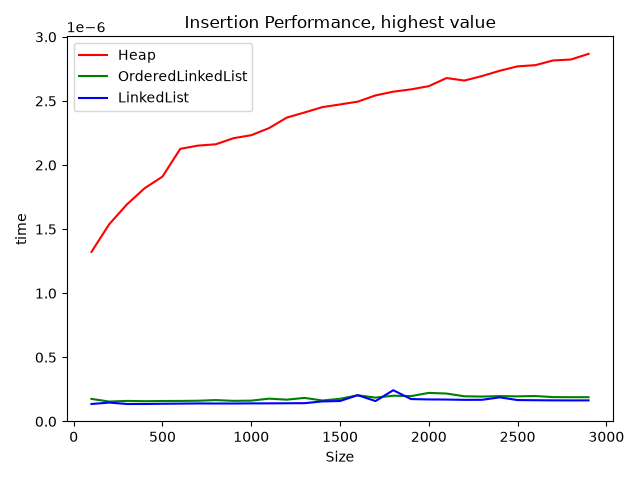
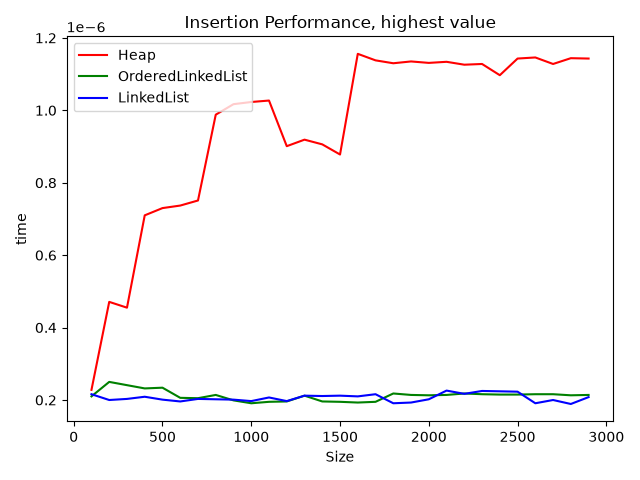
fixed some problems with graphing out insertion time

diff --git a/PicchioniEs1LabAlg.py b/PicchioniEs1LabAlg.py
@@ -1,5 +1,5 @@
 from math import inf, log, ceil
-from timeit import default_timer as timer
+from time import perf_counter as timer
 import matplotlib.pyplot as plt
 import random
 
@@ -398,24 +398,50 @@ def plot_graph(data_type, number_of_operation, time):
     print("-- finished testing for " + label)
 
 
+# def measure_insert_time(data_type, number_of_operation, elements, time, repeats):
+#     for i in number_of_operation:
+#         best = inf
+#         for _ in range(repeats):
+#             if data_type == 0:
+#                 prio_queue = Heap()
+#             elif data_type == 1:
+#                 prio_queue = OrderedLinkedList()
+#             else:
+#                 prio_queue = LinkedList()
+#             start = timer()
+#             for e in elements[:i]:
+#                 prio_queue.insert(e)
+#             end = timer()
+#             best = min(best, end - start)
+#
+#         # if len(time) == 0:
+#         #     time.append(best)
+#         # else:
+#         #     time.append(best + time[-1])
+#         time.append(best)
+#     plot_graph(data_type, number_of_operation, time)
+#
+
+
 def measure_insert_time(data_type, number_of_operation, elements, time, repeats):
+    if data_type == 0:
+        prio_queue = Heap()
+    elif data_type == 1:
+        prio_queue = OrderedLinkedList()
+    else:
+        prio_queue = LinkedList()
     for i in number_of_operation:
         best = inf
-        for _ in range(repeats):
-            if data_type == 0:
-                prio_queue = Heap()
-            elif data_type == 1:
-                prio_queue = OrderedLinkedList()
-            else:
-                prio_queue = LinkedList()
-            for e in elements[:i]:
-                prio_queue.insert(e)
-
+        for j in range(repeats):
             new_value = elements[i]
             start = timer()
             prio_queue.insert(new_value)
             end = timer()
             best = min(best, end - start)
+            if j == repeats - 1:
+                break
+            prio_queue.remove(new_value)
+
         # if len(time) == 0:
         #     time.append(best)
         # else:
@@ -547,14 +573,14 @@ def increase_key_test(
 number_of_elements = 3000
 step = 100
 number_of_operation = range(step, number_of_elements, step)
-interval_end = 3000
-number_of_repeats = 5
+interval_end = 3000000
+number_of_repeats = 10
 inputs = random.choices(range(interval_end), k=number_of_elements)
 
 # TODO remove testing lowest, same results as random
 print("# Testing Insertion cases")
 types_to_test = range(3)
-for i in [1, 2]:
+for i in range(3):
     insert_test(
         i,
         types_to_test,
@@ -568,7 +594,7 @@ for i in [1, 2]:
 print("# Testing Insertion cases, only Heap and LinkedList")
 types_to_test = [0, 2]
 insert_test(
-    2,
+    1,
     types_to_test,
     number_of_elements,
     number_of_operation,
@@ -577,80 +603,80 @@ insert_test(
     inputs,
 )
 
-print("# Testing Remove_Max")
-for i in range(3):
-    remove_max_test(
-        i,
-        number_of_operation,
-        number_of_repeats,
-        inputs,
-    )
-
-# also make a graph for only heap and OrderedLinkedList
-plt.title("Remove_Max Performance")
-plt.xlabel("Size")
-plt.ylabel("time")
-plt.legend(loc="upper left")
-plt.tight_layout()
-plt.savefig("remove_max_performance.png")
-plt.clf()
-
-print("# Testing Remove_Max, only Heap and OrderedLinkedList")
-for i in range(2):
-    remove_max_test(
-        i,
-        number_of_operation,
-        number_of_repeats,
-        inputs,
-    )
-
-# also make a graph for only heap and OrderedLinkedList
-plt.title("Remove_Max Performance")
-plt.xlabel("Size")
-plt.ylabel("time")
-plt.legend(loc="upper left")
-plt.tight_layout()
-plt.savefig("remove_max_performance_no_linked.png")
-plt.clf()
-
-print("# Testing Increase_key")
-for i in range(3):
-    increase_key_test(
-        i,
-        number_of_operation,
-        interval_end,
-        number_of_repeats,
-        inputs,
-    )
-
-plt.title("Increase_key Performance")
-plt.xlabel("Size")
-plt.ylabel("time")
-plt.legend(loc="upper left")
-plt.tight_layout()
-plt.savefig("increase_key_performance.png")
-plt.clf()
-
-# # TODO maybe remove this?
-# # Section to compare insert() in various cases for max_heap
-# time = []
-# inputs = range(number_of_elements)
-# measure_insert_time(Heap, inputs, time, len(inputs), number_of_repeats)
-# plt.plot(number_of_operation, time, "g", label="Increasing order")
+# print("# Testing Remove_Max")
+# for i in range(3):
+#     remove_max_test(
+#         i,
+#         number_of_operation,
+#         number_of_repeats,
+#         inputs,
+#     )
 #
-# time = []
-# inputs = list(reversed(inputs))
-# measure_insert_time(Heap, inputs, time, len(inputs), number_of_repeats)
-# plt.plot(number_of_operation, time, "r", label="Decreasing order")
-#
-# time = []
-# measure_insert_time(Heap, inputs, time, len(inputs), number_of_repeats)
-# plt.plot(number_of_operation, time, "b", label="Random order")
-#
-# plt.title("Insertion Performance Max_heap")
+# # also make a graph for only heap and OrderedLinkedList
+# plt.title("Remove_Max Performance")
 # plt.xlabel("Size")
 # plt.ylabel("time")
 # plt.legend(loc="upper left")
-# plt.savefig("max_heap_performance.png")
+# plt.tight_layout()
+# plt.savefig("remove_max_performance.png")
+# plt.clf()
 #
-# TODO make section for just searching for the max
+# print("# Testing Remove_Max, only Heap and OrderedLinkedList")
+# for i in range(2):
+#     remove_max_test(
+#         i,
+#         number_of_operation,
+#         number_of_repeats,
+#         inputs,
+#     )
+#
+# # also make a graph for only heap and OrderedLinkedList
+# plt.title("Remove_Max Performance")
+# plt.xlabel("Size")
+# plt.ylabel("time")
+# plt.legend(loc="upper left")
+# plt.tight_layout()
+# plt.savefig("remove_max_performance_no_linked.png")
+# plt.clf()
+#
+# print("# Testing Increase_key")
+# for i in range(3):
+#     increase_key_test(
+#         i,
+#         number_of_operation,
+#         interval_end,
+#         number_of_repeats,
+#         inputs,
+#     )
+#
+# plt.title("Increase_key Performance")
+# plt.xlabel("Size")
+# plt.ylabel("time")
+# plt.legend(loc="upper left")
+# plt.tight_layout()
+# plt.savefig("increase_key_performance.png")
+# plt.clf()
+#
+# # # TODO maybe remove this?
+# # # Section to compare insert() in various cases for max_heap
+# # time = []
+# # inputs = range(number_of_elements)
+# # measure_insert_time(Heap, inputs, time, len(inputs), number_of_repeats)
+# # plt.plot(number_of_operation, time, "g", label="Increasing order")
+# #
+# # time = []
+# # inputs = list(reversed(inputs))
+# # measure_insert_time(Heap, inputs, time, len(inputs), number_of_repeats)
+# # plt.plot(number_of_operation, time, "r", label="Decreasing order")
+# #
+# # time = []
+# # measure_insert_time(Heap, inputs, time, len(inputs), number_of_repeats)
+# # plt.plot(number_of_operation, time, "b", label="Random order")
+# #
+# # plt.title("Insertion Performance Max_heap")
+# # plt.xlabel("Size")
+# # plt.ylabel("time")
+# # plt.legend(loc="upper left")
+# # plt.savefig("max_heap_performance.png")
+# #
+# # TODO make section for just searching for the max
